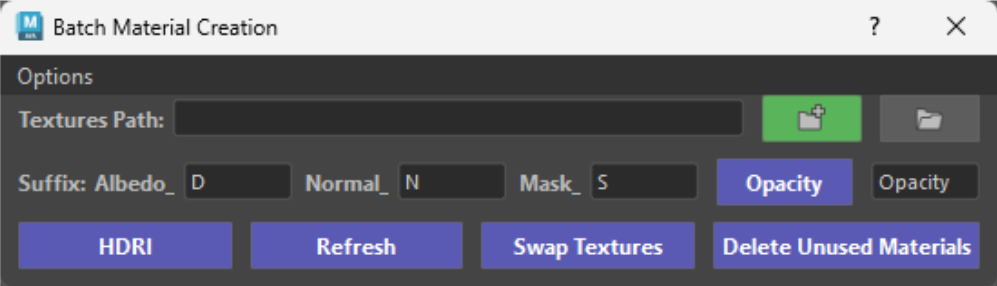
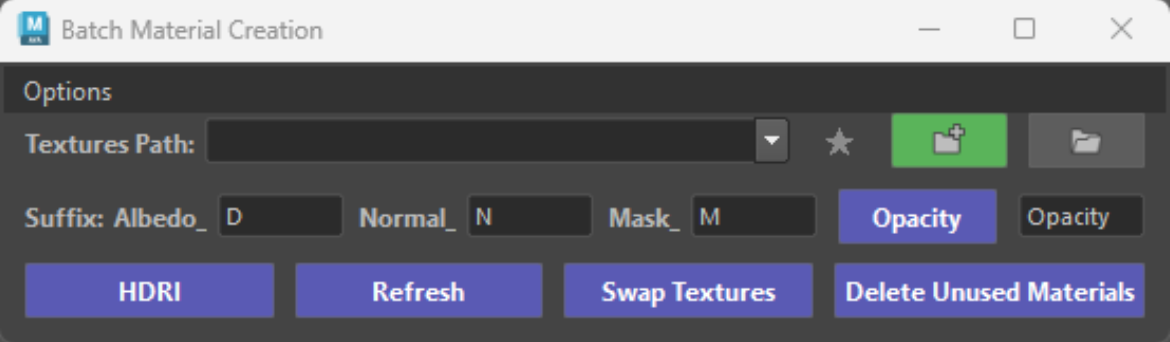
updated and added docs
updated and added docs

diff --git a/overrides/main.html b/overrides/main.html
@@ -1,0 +1,3 @@
+{% extends "base.html" %}
+
+{% block announce %}{% if page and page.meta and page.meta.announce %}{{ page.meta.announce }}{% if page.meta.announce_link %} See the <a href="{{ page.meta.announce_link | url }}">changelog</a> for details.{% endif %}<button class="announce-close" onclick="this.closest('.md-banner').remove()" aria-label="Close">✕</button>{% endif %}{% endblock %}

diff --git a/docs/stylesheets/extra.css b/docs/stylesheets/extra.css
@@ -25,3 +25,19 @@
   height: 100%;
 }
 
+
+.md-banner__inner {
+  position: relative;
+  padding-right: 2.5rem;
+}
+.announce-close {
+  position: absolute;
+  right: 0.5rem;
+  top: 50%;
+  transform: translateY(-50%);
+  background: none;
+  border: none;
+  color: inherit;
+  font-size: 1rem;
+  cursor: pointer;
+}

diff --git a/docs/Batch Material Creation/Breakdown.md b/docs/Batch Material Creation/Breakdown.md
@@ -1,3 +1,9 @@
+---
+announce: "🛠 <strong>Batch Material Creation has been updated!</strong>"
+announce_link: "Batch Material Creation/Changelog/"
+---
+
+
 # **<span style="color:rgb(71, 187, 119);">Breakdown</span>** :tools:
 
 
@@ -268,6 +274,9 @@ The Swap Texture feature allows you to instantly swap texture maps *(such as Alb
 
 ## <span style="color:rgb(199, 192, 99);">**Stored Paths**</span>
 
+![Batch Material Creation](images/Batch_Material_Creation_Stored_Paths_1.png){ .img-medium .img-centered } 
+
+
 The path field is a dropdown that remembers the folders you use. Paths are stored globally, so they persist across scenes and Maya sessions. 
 
 ???+ Tip "Tip - Long Paths"
@@ -332,9 +341,35 @@ The path field is a dropdown that remembers the folders you use. Paths are store
         <figcaption><span style="color:rgba(22, 165, 110, 1);">Removing Paths</span></figcaption>
     </figure>
 
-    * ++ctrl++ + Click	Delete all recent paths (pinned favorites are kept)
-    * ++ctrl++ + ++shift++ + Click	Remove only the path currently shown in the field
+    * ++ctrl++ + Click	Click	Remove only the path currently shown in the field
+    * ++ctrl++ + ++shift++ + Delete all recent paths (pinned favorites are kept)
 
+
+## Tiling/Offset
+
+Tiling/Offset allows you to control the tiling or offset values in the place2dtexture node within the hypershade. 
+    
+* Find the controls in the Additional Preferences Window.
+
+![Batch Material Creation](images/BMC_tiling_1.png){ .img-large .img-centered} 
+
+Three ways the values get applied:
+
+* On creation. Every new material's place2dTexture node is created with the current Repeat/Offset values. Nothing to do beyond setting the fields first.
+* Hitting Enter in any field (live apply). Select objects, faces, or materials (Hypershade), type a value, hit Enter. Only repeatU/V and offsetU/V on the selected materials' place2dTexture nodes change — no textures are reconnected or refreshed. Works regardless of the Tiling checkbox. Focus stays in the field so you can type another value and hit Enter again. Undoable as a single step. Warns if nothing is selected or the material has no place2dTexture.
+
+    <figure style="text-align: center;">
+        <img src="../../Batch Material Creation/images/BMC_tiling_1.gif" ...>
+        <figcaption><span style="color:rgba(22, 165, 110, 1);">Hitting Enter to change Tiling/Offset</span></figcaption>
+    </figure>
+
+
+* Refresh button. If the Tiling checkbox (Refresh Settings) is checked, refreshing also pushes the current Repeat/Offset values onto the existing place2dTexture nodes of the selected materials. Uncheck Tiling to refresh textures without touching UVs.
+
+    <figure style="text-align: center;">
+        <img src="../../Batch Material Creation/images/BMC_tiling_2.gif" ...>
+        <figcaption><span style="color:rgba(22, 165, 110, 1);">Refreshing Tiling/Offset</span></figcaption>
+    </figure>
 
 
 ## **<span style="color:rgb(71, 187, 119);">Options Menu</span>**
@@ -443,7 +478,16 @@ Instead of being stuck with raw image file names, you can set up smart Search & 
 
 - Reversible Logic for Refresh: These naming rules work both ways! When you use the Refresh button later on a material named MI_Chair_A, the tool reverses this rule behind the scenes to look for source textures starting with T_Chair_A.
 
-### 2. Refresh Settings
+### 2. Tiling / Offset Controls
+
+![Batch Exporter Window](images/Batch_Material_Creation_Tiling_1.png){ .img-medium} 
+
+Tiling/Offset controls for the tiling or offset values in the place2dtexture node within the hypershade.
+
+For more info checkout [Tiling/Offset](#tilingoffset) section. 
+
+
+### 3. Refresh Settings
 
 ![Batch Exporter Window](images/Batch_Material_Creation_add_Pref_2.png){ .img-medium} 
 
@@ -457,7 +501,7 @@ The Refresh Settings section allows you to fine-tune how the Refresh button beha
 
 - Unchecked Behavior: If unchecked, the tool relies strictly on the existing texture file paths already assigned to the shader rather than using the material's name to perform a new search.
 
-### 3. Packed Mask Settings
+### 4. Packed Mask Settings
 
 ![Batch Exporter Window](images/Batch_Material_Creation_add_Pref_3.png){ .img-medium} 
 

diff --git a/docs/Batch Material Creation/Changelog.md b/docs/Batch Material Creation/Changelog.md
@@ -1,0 +1,19 @@
+# Changelog:
+
+
+## **<span style="color:rgba(195, 221, 80, 1);">Version: 0.69</span>**
+**Added Tiling/Offset Controls. **
+
+![Batch Material Creation](images/Batch_Material_Creation_Tiling_1.png){ .img-medium .img-centered } 
+
+Three ways the values get applied:
+
+* On creation. Every new material's place2dTexture node is created with the current Repeat/Offset values. Nothing to do beyond setting the fields first.
+* Hitting Enter in any field (live apply). Select objects, faces, or materials (Hypershade), type a value, hit Enter. Only repeatU/V and offsetU/V on the selected materials' place2dTexture nodes change — no textures are reconnected or refreshed. Works regardless of the Tiling checkbox. Focus stays in the field so you can type another value and hit Enter again. Undoable as a single step. Warns if nothing is selected or the material has no place2dTexture.
+* Refresh button. If the Tiling checkbox (Refresh Settings) is checked, refreshing also pushes the current Repeat/Offset values onto the existing place2dTexture nodes of the selected materials. Uncheck Tiling to refresh textures without touching UVs.
+
+## **<span style="color:rgba(195, 221, 80, 1);">Version: 0.64</span>**
+
+![Batch Material Creation](images/Batch_Material_Creation_Stored_Paths_1.png){ .img-medium .img-centered } 
+
+* Added **stored paths** - dropdown, favorites button.

diff --git a/docs/Batch Material Creation/index.md b/docs/Batch Material Creation/index.md
@@ -1,3 +1,9 @@
+---
+announce: >-
+  🛠 <strong>Batch Material Creation has been updated! Some images may not show the latest updates</strong>
+  See the <a href="Changelog/">changelog</a> for details.
+---
+
 # **<span style="color:rgb(71, 187, 119);">Batch Material Creation</span>** :tools:
 
 
